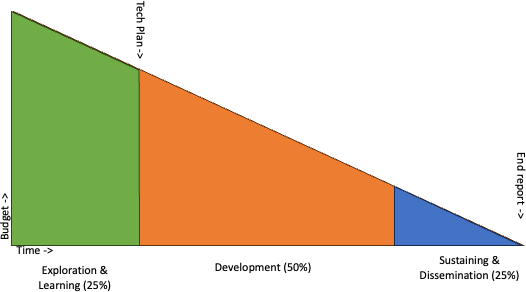
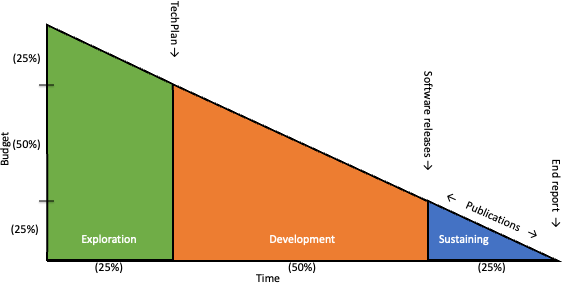
changing budget standard figure to make them uniform, closes #31

diff --git a/tex/execution.tex b/tex/execution.tex
@@ -114,13 +114,14 @@ Lead RSE is responsible for results being delivered on time for the project and 
     \centering
     \begin{subfigure}[b]{0.49\textwidth}
         \centering
-        \includegraphics[width=1\textwidth]{img/budget-triangle.pdf}
-        \vspace{-1cm}
+        \includegraphics[width=0.95\textwidth]{img/budget-stages.png}
+        \vspace{0.2cm}
         %\caption{Standard}
     \end{subfigure}%
+    \hfill
     \begin{subfigure}[b]{0.49\textwidth}
         \centering
-        \includegraphics[width=1\textwidth]{img/budget-faster.png}
+        \includegraphics[width=0.95\textwidth]{img/budget-faster.png}
         \vspace{0.2cm}
         %\caption{Fast}
     \end{subfigure}
@@ -136,7 +137,7 @@ Project hours are managed by different parties with different responsibilities:%
 
 \let\myhcolw\relax 
 \newlength{\myhcolw}
-\setlength{\myhcolw}{0.6\textwidth}
+\setlength{\myhcolw}{0.5\textwidth}
 \begin{table}[!htb]
 % \caption{Parties at the eScience Center and their responsibilities}
 \renewcommand{\arraystretch}{1.5}
